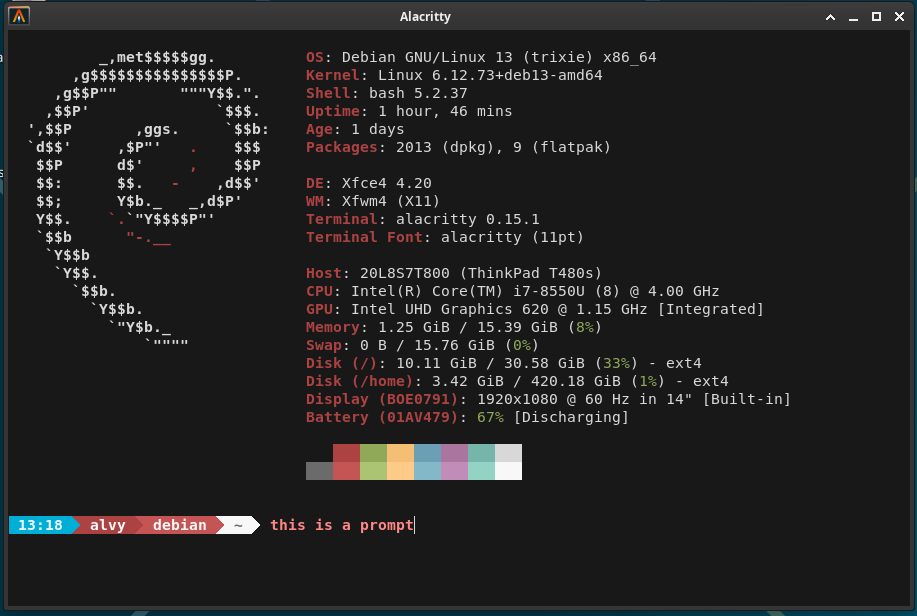
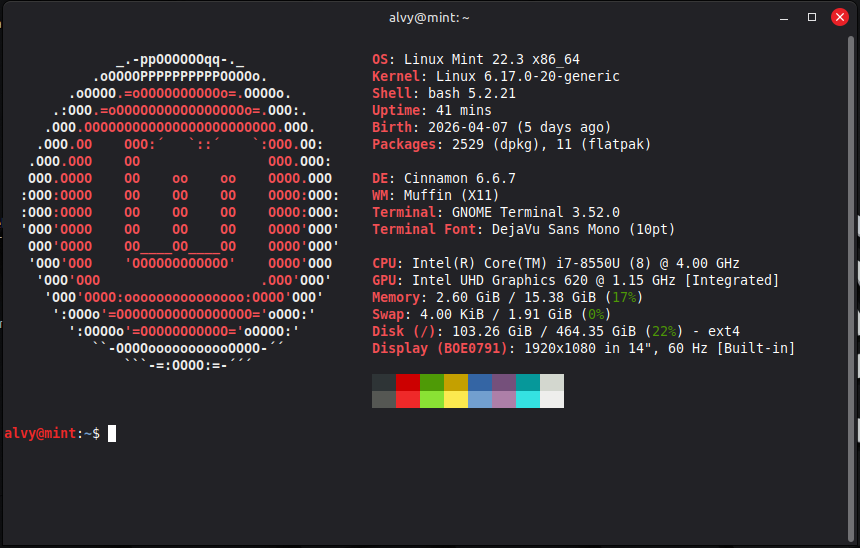
Migration to LInux Mint
Debian was cool, but I'm afraid it wasn't fullfilling my needs

Changed region(s): [[0.0, 0.0, 1.0, 1.0]]

diff --git a/README.md b/README.md
@@ -1,9 +1,5 @@
 ## ℹ Contains configuration files for
 
-- [Alacritty](https://github.com/alacritty/alacritty)
-
-- [synth-shell-prompt script](https://github.com/andresgongora/synth-shell-prompt)
-
 - [Fastfetch](https://github.com/fastfetch-cli/fastfetch)
 
 ## 💻 Preview:
